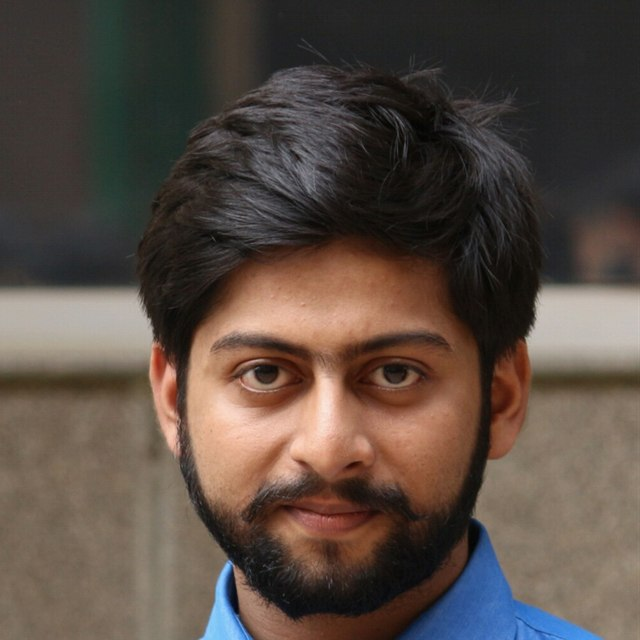
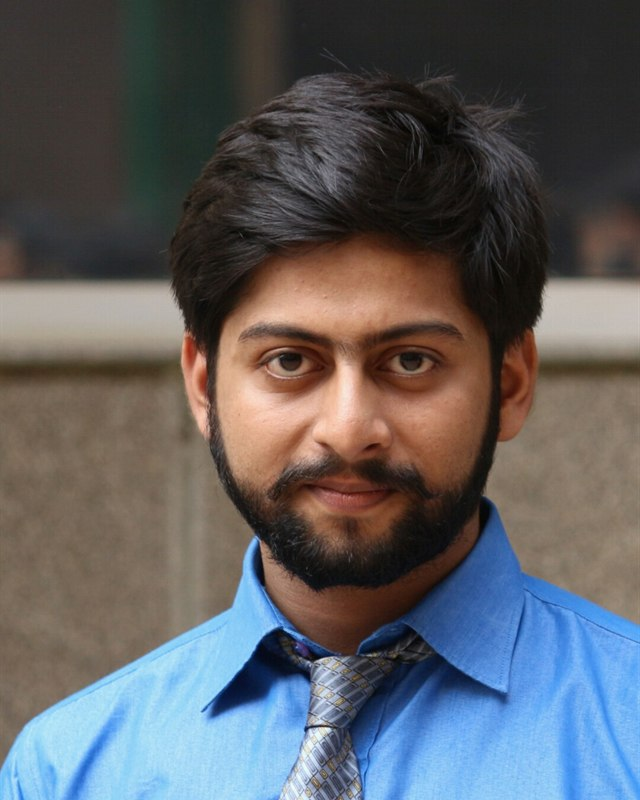
Add Raghuvanshi emblem, arch portrait and steady glow

diff --git a/index.html b/index.html
@@ -92,15 +92,18 @@
   .hero::after{bottom:-90px;right:-90px;animation-direction:reverse}
   @keyframes spin{to{transform:rotate(360deg)}}
 
-  .photo-ring{position:relative;width:200px;height:200px;margin:0 auto}
-  .photo-ring svg{position:absolute;inset:0;width:100%;height:100%;
-    filter:drop-shadow(0 0 6px rgba(255,200,100,.35));animation:ringglow 4s ease-in-out infinite}
-  @keyframes ringglow{50%{filter:drop-shadow(0 0 14px rgba(255,200,100,.75))}}
-  .photo{position:absolute;inset:26px;border-radius:50%;overflow:hidden;
-    border:4px solid var(--gold-l);box-shadow:0 0 0 3px rgba(255,255,255,.25),0 10px 30px rgba(0,0,0,.35),0 0 24px rgba(255,200,100,.35);
-    animation:photoglow 4s ease-in-out infinite}
-  @keyframes photoglow{50%{box-shadow:0 0 0 3px rgba(255,255,255,.35),0 10px 30px rgba(0,0,0,.35),0 0 40px rgba(255,200,100,.7)}}
-  .photo img{width:100%;height:100%;object-fit:cover;object-position:50% 50%;display:block}
+  /* Portrait in an arch, with Surya rays behind it (Raghukul = Suryavansh) */
+  .portrait{position:relative;width:230px;margin:0 auto}
+  .rays{position:absolute;left:50%;top:115px;width:440px;height:440px;transform:translate(-50%,-50%);pointer-events:none}
+  .arch{position:relative;aspect-ratio:4/5;border-radius:115px 115px 20px 20px;overflow:hidden;
+    border:4px solid var(--gold-l);
+    box-shadow:0 0 0 3px rgba(255,255,255,.35),0 0 0 10px rgba(243,211,138,.22),0 0 44px rgba(255,200,100,.75),0 18px 36px rgba(0,0,0,.4)}
+  .arch img{width:100%;height:100%;object-fit:cover;object-position:50% 20%;display:block}
+
+  .vansh{display:inline-flex;align-items:center;gap:8px;margin-top:12px;padding:4px 18px 4px 6px;border-radius:999px;
+    font-family:"Tiro Devanagari Sanskrit",serif;font-size:1.2rem;line-height:1.4;color:var(--maroon-d);
+    background:linear-gradient(180deg,#fff0bf,#f3c25a);box-shadow:0 0 0 1px rgba(255,255,255,.5),0 6px 16px -6px rgba(0,0,0,.45)}
+  .vansh svg{width:28px;height:28px;flex:none}
 
   .script{font-family:"Great Vibes",cursive;font-size:1.9rem;color:var(--gold-l);margin-top:14px;line-height:1}
   .name{font-family:"Playfair Display",serif;font-weight:700;font-size:clamp(2.1rem,7vw,3.2rem);line-height:1.15;
@@ -207,8 +210,8 @@
     .grid .item{padding:10px 12px}
     .item .v{font-size:.93rem}
     .card{padding:22px 16px 18px}
-    .photo-ring{width:176px;height:176px}
-    .photo{inset:22px}
+    .portrait{width:210px}
+    .rays{top:105px}
     .actions button{padding:10px 14px}
   }
   @media (max-width:380px){ .family{grid-template-columns:1fr} }
@@ -226,7 +229,7 @@
     .wrap{padding:0;max-width:none}
     .reveal{opacity:1!important;transform:none!important}
     .hero,.card{break-inside:avoid;box-shadow:none}
-    .hero,.head .ico,.cbtn .ci,.fam .av,.lang,.om{-webkit-print-color-adjust:exact;print-color-adjust:exact}
+    .hero,.head .ico,.cbtn .ci,.fam .av,.lang,.om,.vansh{-webkit-print-color-adjust:exact;print-color-adjust:exact}
     .card{margin-top:12px}
     *{animation:none!important}
   }
@@ -243,21 +246,25 @@
 
   <!-- Hero -->
   <header class="hero reveal">
-    <div class="photo-ring">
-      <svg viewBox="-100 -100 200 200" aria-hidden="true">
+    <div class="portrait">
+      <svg class="rays" viewBox="-100 -100 200 200" aria-hidden="true">
         <defs>
-          <linearGradient id="gg" x1="0" y1="0" x2="1" y2="1">
-            <stop offset="0" stop-color="#ffe6a3"/><stop offset="1" stop-color="#e0a33a"/>
-          </linearGradient>
-          <path id="pt" d="M0-74 C7-82 7-90 0-99 C-7-90-7-82 0-74Z"/>
+          <radialGradient id="rg" r=".5">
+            <stop offset=".3" stop-color="#ffe6a3" stop-opacity=".95"/>
+            <stop offset="1" stop-color="#ffd27a" stop-opacity="0"/>
+          </radialGradient>
         </defs>
-        <circle r="76" fill="none" stroke="url(#gg)" stroke-width="1.5" stroke-dasharray="2 5"/>
-        <g fill="url(#gg)" id="ring"></g>
+        <circle r="62" fill="#ffd27a" opacity=".18"/>
+        <g fill="url(#rg)" id="rays"></g>
       </svg>
-      <div class="photo"><img src="assets/photo.jpg" alt="Photo of Abhijeet B Singh"></div>
+      <div class="arch"><img src="assets/photo.jpg" alt="Photo of Abhijeet B Singh"></div>
     </div>
     <p class="script">Biodata</p>
     <h1 class="name">Abhijeet B Singh</h1>
+    <div class="vansh">
+      <svg viewBox="-16 -16 32 32" aria-hidden="true"><g fill="#d9480f"><circle r="6.5"/><g id="sr"><path d="M0-15 2-9h-4z"/></g><use href="#sr" transform="rotate(45)"/><use href="#sr" transform="rotate(90)"/><use href="#sr" transform="rotate(135)"/><use href="#sr" transform="rotate(180)"/><use href="#sr" transform="rotate(225)"/><use href="#sr" transform="rotate(270)"/><use href="#sr" transform="rotate(315)"/></g><circle r="3" fill="#ffd27a"/></svg>
+      रघुवंशी
+    </div>
     <p class="tag">Computer Engineer · Infosys · Mumbai</p>
     <div class="chips">
       <span class="chip"><b id="age">28</b> years</span>
@@ -367,7 +374,7 @@
     </div>
   </section>
 
-  <p class="foot">॥ शुभम् भवतु ॥<small>Thank you for taking the time to know me.</small></p>
+  <p class="foot">रघुकुल रीति सदा चलि आई।<br>प्रान जाहुँ बरु बचनु न जाई॥<small>Thank you for taking the time to know me.</small></p>
 </main>
 
 <div class="actions">
@@ -384,14 +391,14 @@
     document.getElementById('age').textContent=a; document.getElementById('age2').textContent=a;
   })();
 
-  // Petal ring around the photo
+  // Surya rays behind the portrait
   (function(){
-    var g=document.getElementById('ring'), ns='http://www.w3.org/2000/svg';
-    for(var i=0;i<24;i++){
-      var u=document.createElementNS(ns,'use');
-      u.setAttribute('href','#pt'); u.setAttribute('transform','rotate('+(i*15)+')');
-      u.setAttribute('opacity', i%2 ? .55 : 1);
-      g.appendChild(u);
+    var g=document.getElementById('rays'), ns='http://www.w3.org/2000/svg';
+    for(var i=0;i<32;i++){
+      var p=document.createElementNS(ns,'path'), len=i%2?78:98;
+      p.setAttribute('d','M0-'+len+' 3.2-40h-6.4z');
+      p.setAttribute('transform','rotate('+(i*360/32)+')');
+      g.appendChild(p);
     }
   })();
 
